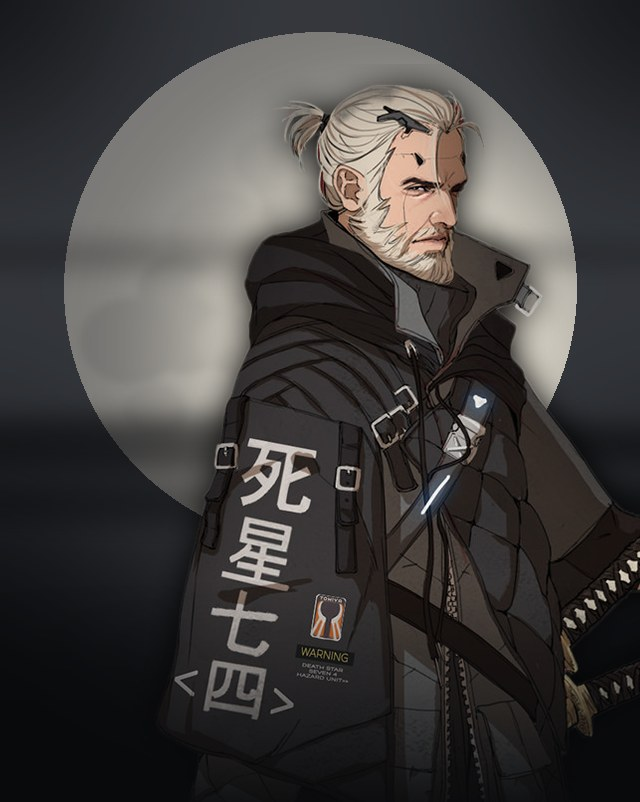
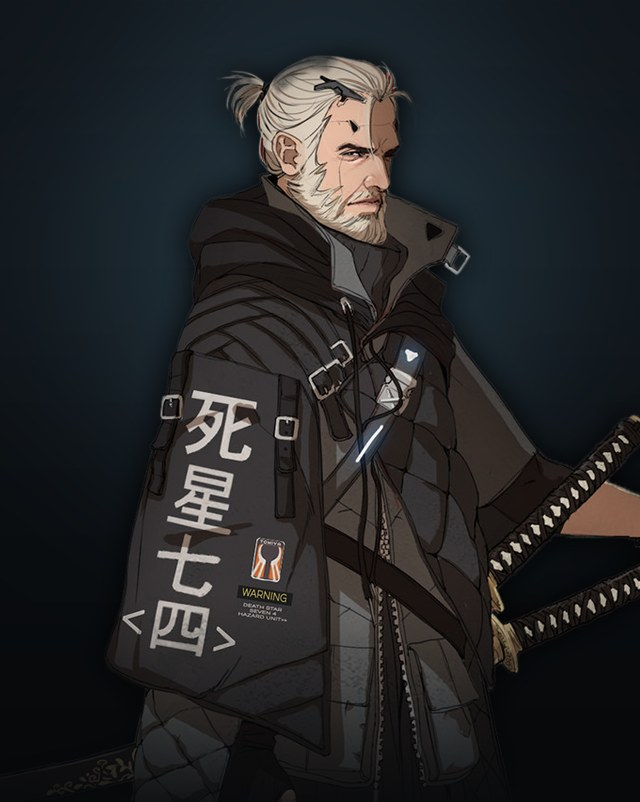
Zolo pass 2: glacier palette, moonlit forest background, centred portrait without moon, no alias box or martial-arts styling
Claude-Session: https://claude.ai/code/session_01Hg9Pj69goethW2WLdRVFiR

diff --git a/index.html b/index.html
@@ -1518,23 +1518,23 @@ textarea.ed{display:block;margin-top:4px;resize:vertical;font-size:13.5px;line-h
 }
 
 /* ---------- ZOLO: the moon to Iō's sun. Same bones, cold skin: ink black, bone and silver structure, one vermilion accent ---------- */
-body.zolo{--void:#07080a;--panel:#0d0f12;--cell:#15181c;--cell-2:#1c2025;--line:#2a2f36;--frame:#80868f;--hdr:#000;
-  --red:#b3261e;--red-dim:#3d1411;--red-hi:#e0402f;--gold:#dcd6c8;--gold-dim:#6e6b64;--ink:#eef0f2;--ink-2:#b8bdc4;--ink-3:#6e747c}
+body.zolo{--void:#06080a;--panel:#0c1014;--cell:#131920;--cell-2:#1a2129;--line:#27313b;--frame:#7b8894;--hdr:#000;
+  --red:#1f6f8f;--red-dim:#10313f;--red-hi:#6cc6e6;--gold:#d9dde0;--gold-dim:#66707a;--ink:#eef2f4;--ink-2:#b4bec7;--ink-3:#6b7682}
 body.zolo .topin{background:rgba(12,14,17,.84)}
 body.zolo .box,body.zolo .zall,body.zolo .zitem,body.zolo .rside,body.zolo .zpanel.empty{background:rgba(12,14,17,.78)}
 body.zolo .rcard{background:rgba(12,14,17,.82)}
 body.zolo .seg button{background:rgba(12,14,17,.85)}
-body.zolo .id{background:linear-gradient(90deg,rgba(179,38,30,.22),transparent)}
+body.zolo .id{background:linear-gradient(90deg,rgba(108,198,230,.13),transparent)}
 body.zolo .hb::after{border-color:transparent var(--red-hi) transparent transparent}
 body.zolo .stat b{letter-spacing:.2em}
 body.zolo .portrait{background:#090a0c}
 body.zolo .chip{border-color:var(--frame);color:var(--ink-2)}
 .moonmark{width:34px;height:34px;flex:none}
+body.zolo .tab[aria-current]{background:var(--red);color:#fff;box-shadow:0 0 18px rgba(108,198,230,.25)}
 /* Zolo signature: finer silver frames, a vermilion seal on section titles, elements retuned to the moon palette */
-body.zolo{--earth:#d9cdb4;--fire:#e0402f;--water:#8fb4d8;--air:#e8ecf2}
 body.zolo .box,body.zolo .stat,body.zolo .rside,body.zolo .zpanel.empty{border-width:1px}
 body.zolo .topin{box-shadow:inset 0 0 0 1px var(--frame)}
-body.zolo .sec-title::before{content:"";width:13px;height:13px;flex:none;background:var(--red-hi);box-shadow:0 0 0 3px rgba(224,64,47,.18);transform:rotate(45deg);margin:0 4px 0 2px}
+body.zolo .sec-title::before{content:"";width:11px;height:11px;flex:none;background:var(--red-hi);box-shadow:0 0 12px rgba(108,198,230,.55);transform:rotate(45deg);margin:0 4px 0 2px}
 body.zolo .sec-title::after{height:1px;background:linear-gradient(90deg,var(--gold),transparent)}
 body.zolo .hb{border-bottom:1px solid rgba(220,214,200,.12)}
 /* persona switch (header) */
@@ -1711,7 +1711,7 @@ body.zolo .whosw button[aria-pressed="true"]{color:#0b0c0e;background:var(--gold
     document.body.classList.toggle("zolo", WHO === "zolo");
     if (WHO === "zolo" && ZREADY.indexOf(tab) < 0) tab = "dossier";
   }
-  var MOON = '<svg class="moonmark" viewBox="0 0 64 64" aria-hidden="true"><defs><radialGradient id="mmg" cx="40%" cy="38%" r="70%"><stop offset="0" stop-color="#f2eee4"/><stop offset=".7" stop-color="#cfc9bb"/><stop offset="1" stop-color="#9c978c"/></radialGradient></defs><circle cx="32" cy="32" r="27" fill="url(#mmg)"/><circle cx="43" cy="24" r="23" fill="#0b0c0e"/><circle cx="16" cy="38" r="2.4" fill="#e0402f"/></svg>';
+  var MOON = '<svg class="moonmark" viewBox="0 0 64 64" aria-hidden="true"><defs><radialGradient id="mmg" cx="40%" cy="38%" r="70%"><stop offset="0" stop-color="#f2eee4"/><stop offset=".7" stop-color="#cfc9bb"/><stop offset="1" stop-color="#9c978c"/></radialGradient></defs><circle cx="32" cy="32" r="27" fill="url(#mmg)"/><circle cx="43" cy="24" r="23" fill="#0b0c0e"/><circle cx="16" cy="38" r="2.4" fill="#6cc6e6"/></svg>';
   var SUNICO = '<svg viewBox="0 0 24 24" aria-hidden="true"><circle cx="12" cy="12" r="5" fill="currentColor"/><g stroke="currentColor" stroke-width="2" stroke-linecap="round"><path d="M12 1.5v3M12 19.5v3M1.5 12h3M19.5 12h3M4.6 4.6l2.1 2.1M17.3 17.3l2.1 2.1M4.6 19.4l2.1-2.1M17.3 6.7l2.1-2.1"/></g></svg>';
   var MOONICO = '<svg viewBox="0 0 24 24" aria-hidden="true"><path fill="currentColor" d="M20.5 14.6A8.8 8.8 0 0 1 9.4 3.5a.6.6 0 0 0-.8-.7A9.8 9.8 0 1 0 21.2 15.4a.6.6 0 0 0-.7-.8z"/></svg>';
   function whoSwitch(){ if (!((IO && IO.zolo) || (S && S.zolo))) return '';
@@ -1771,10 +1771,11 @@ body.zolo .whosw button[aria-pressed="true"]{color:#0b0c0e;background:var(--gold
     var stm = String(r.name || "").match(STAT_TAG);
     if (!editing && nyoziOn() && stm && stm[1] === "EMP") cls.push("nyzsk");
     if (prac) cls.push("practiced");
-    if (r.el && !editing) cls.push("master", "m-" + r.el);
-    if (!editing && !r.el && formIcon(r.icon || r.name)) cls.push("iconrow");
-    var badge = r.el ? '<span class="elc el-' + esc(r.el) + '" title="' + esc(r.el) + '">' + ({earth:"土",fire:"火",water:"水",air:"风"}[r.el] || "") + '</span>'
-      : (!editing ? formIcon(r.icon || r.name) : '');
+    var zel = WHO === "io" ? r.el : "";
+    if (zel && !editing) cls.push("master", "m-" + zel);
+    if (!editing && !r.el && WHO === "io" && formIcon(r.icon || r.name)) cls.push("iconrow");
+    var badge = zel ? '<span class="elc el-' + esc(r.el) + '" title="' + esc(r.el) + '">' + ({earth:"土",fire:"火",water:"水",air:"风"}[r.el] || "") + '</span>'
+      : (!editing && WHO === "io" ? formIcon(r.icon || r.name) : '');
     var nameCell = editing
       ? '<span class="flex"><button class="keybtn' + (r.bold ? ' on' : '') + '" data-key="' + p + '" title="Mark as key skill" aria-label="Key skill">★</button>' + f(p+".name",{label:"Skill"}) + (r.el !== undefined || ind ? sel(p+".el", ELEMENTS, "Element") : '') + del(p) + '</span>'
       : '<span class="mname">' + badge + '<span>' + nm(String(r.name).replace(/\s*\[NYOZI\]/ig, "")) + '</span></span>';
@@ -1815,7 +1816,7 @@ body.zolo .whosw button[aria-pressed="true"]{color:#0b0c0e;background:var(--gold
         return;
       }
       if (inSub && STAT_TAG.test(r.name)) inSub = false;  // a row with its own stat tag is a skill in its own right, not part of the sub-group above
-      if (inSub && !editing && /^Martial Arts/.test(lastSub)){
+      if (inSub && !editing && WHO === "io" && /^Martial Arts/.test(lastSub)){
         if (r.el && !masterOpen){ masterOpen = true; out += '<tr class="sub mhead"><td colspan="5">Mastered</td></tr>'; }
         else if (!r.el && masterOpen && !otherOpen){ otherOpen = true; out += '<tr class="sub mhead other"><td colspan="5">Other Forms</td></tr>'; }
       }
@@ -2010,7 +2011,7 @@ body.zolo .whosw button[aria-pressed="true"]{color:#0b0c0e;background:var(--gold
         return '<tr class="' + (r.ind ? 'ind ' : '') + (r.tone && r.tone !== "med" ? 'row-' + esc(r.tone) : '') + '"><td class="name">' + name + '</td><td class="n dmg">' + f(p+".dmg",{dash:1}) + '</td><td class="n">' + f(p+".ammo",{num:1,dash:1}) + '</td><td class="n">' + f(p+".rof",{num:1,dash:1}) + '</td></tr>'; }).join("") +
       '</tbody></table></div>' + add("cyberweapons","Add cyberweapon") + '</section>';
     var glitch = '<figure class="box glitch"><img src="' + esc(S.glitch || "img/io-glitch.webp") + '" alt="' + (WHO === "zolo" ? 'Zolo masked and hooded, katanas at his back, under the moon' : 'Glitching animated portrait of Iō drinking tea') + '" loading="lazy"><figcaption><span class="lab">Known aliases</span><div class="aka">' + String(S.aliases || "").split(",").map(function(a){ a = a.trim(); return a ? '<span>' + esc(a) + '</span>' : ''; }).join("") + '</div></figcaption></figure>';
-    return '<div class="wa a-wa"><h2 class="sec-title"><span class="glx">Weapons &amp; Armor</span></h2>' + armor + weapons + cyber + glitch + '</div>';
+    return '<div class="wa a-wa"><h2 class="sec-title"><span class="glx">Weapons &amp; Armor</span></h2>' + armor + weapons + cyber + (WHO === "zolo" ? '' : glitch) + '</div>';
   }
 
   function pharma(){
@@ -3277,7 +3278,7 @@ body.zolo .whosw button[aria-pressed="true"]{color:#0b0c0e;background:var(--gold
     document.body.classList.toggle("editing", editing);
     if (!editing && S && WHO === "io") deriveSkills();
     var body = tab === "ware" ? chrome() : tab === "rep" ? repPage() : tab === "posse" ? possePage() : tab === "vehicles" ? garagePage() : tab === "advance" ? advPage() : tab === "casefile" ? casePage() : '<main class="dossier">' + idColumn() + statsRail() + skills() + vitals() + weaponsArmor() + loadout() + '</main>';
-    app.innerHTML = header() + body + (tab === "dossier" ? '<p class="credit">Martial arts icons by Lorc, Delapouite and Caro Asercion from <a href="https://game-icons.net" target="_blank" rel="noopener">game-icons.net</a>, used under <a href="https://creativecommons.org/licenses/by/3.0/" target="_blank" rel="noopener">CC BY 3.0</a>.</p>' : '');
+    app.innerHTML = header() + body + (tab === "dossier" && WHO === "io" ? '<p class="credit">Martial arts icons by Lorc, Delapouite and Caro Asercion from <a href="https://game-icons.net" target="_blank" rel="noopener">game-icons.net</a>, used under <a href="https://creativecommons.org/licenses/by/3.0/" target="_blank" rel="noopener">CC BY 3.0</a>.</p>' : '');
     if (tab === "ware") wireUp();
     if (tab === "rep" && !editing) repApply();
     if (tab === "vehicles" && gZone && !editing) setZone(gZone, false);
@@ -3690,7 +3691,7 @@ body.zolo .whosw button[aria-pressed="true"]{color:#0b0c0e;background:var(--gold
 (function(){
   "use strict";
   var c = document.getElementById("sky"); if (!c || !c.getContext) return;
-  var ctx = c.getContext("2d"), layers = [], W = 0, H = 0, dpr = 1, shoot = null, nextShoot = 0, craters = [], clouds = [];
+  var ctx = c.getContext("2d"), layers = [], W = 0, H = 0, dpr = 1, shoot = null, nextShoot = 0;
   var still = window.matchMedia && window.matchMedia("(prefers-reduced-motion: reduce)").matches;
   function rnd(seed){ return function(){ seed = (seed * 16807) % 2147483647; return (seed - 1) / 2147483646; }; }
   var r = rnd(20450917);
@@ -3709,42 +3710,67 @@ body.zolo .whosw button[aria-pressed="true"]{color:#0b0c0e;background:var(--gold
       for (var i = 0; i < L.n; i++) stars.push({x:r()*W, y:r()*H, s:L.size[0]+r()*(L.size[1]-L.size[0]), a:L.alpha[0]+r()*(L.alpha[1]-L.alpha[0]), warm:r()<.18, ph:r()*6.28, tw:.4+r()*1.2});
       return {stars:stars, speed:L.speed};
     });
-    /* Zolo's moon: fixed craters and a few long ink-cloud bands */
-    var rc = rnd(740204); craters = [];
-    for (var i = 0; i < 26; i++){ var a = rc()*6.283, d = Math.pow(rc(), .7)*.82; craters.push({x:Math.cos(a)*d, y:Math.sin(a)*d, r:.03 + rc()*.13, o:.05 + rc()*.12}); }
-    clouds = [{y:.02, h:.10, w:1.9, sp:.006, ph:.1, o:.78}, {y:.16, h:.06, w:1.5, sp:.009, ph:.6, o:.62}, {y:-.12, h:.05, w:1.3, sp:.004, ph:.35, o:.45}];
   }
-  function moon(t){
-    var R = Math.min(W, H) * (W < 700 ? .34 : .27), cx = W * (W < 700 ? .74 : .80), cy = H * .22;
-    var halo = ctx.createRadialGradient(cx, cy, R*.9, cx, cy, R*3.2);
-    halo.addColorStop(0, "rgba(206,210,220,.16)"); halo.addColorStop(.35, "rgba(150,160,180,.06)"); halo.addColorStop(1, "rgba(150,160,180,0)");
-    ctx.fillStyle = halo; ctx.fillRect(0, 0, W, H);
-    ctx.save(); ctx.beginPath(); ctx.arc(cx, cy, R, 0, 6.2832); ctx.clip();
-    var body = ctx.createRadialGradient(cx - R*.3, cy - R*.3, R*.1, cx, cy, R*1.05);
-    body.addColorStop(0, "#f1ede3"); body.addColorStop(.62, "#d5cfc1"); body.addColorStop(1, "#8f8b83");
-    ctx.fillStyle = body; ctx.fillRect(cx - R, cy - R, R*2, R*2);
-    craters.forEach(function(k){ var g = ctx.createRadialGradient(cx + k.x*R, cy + k.y*R, 0, cx + k.x*R, cy + k.y*R, k.r*R);
-      g.addColorStop(0, "rgba(90,88,84," + k.o + ")"); g.addColorStop(.8, "rgba(90,88,84," + (k.o*.6) + ")"); g.addColorStop(1, "rgba(90,88,84,0)");
-      ctx.fillStyle = g; ctx.beginPath(); ctx.arc(cx + k.x*R, cy + k.y*R, k.r*R, 0, 6.2832); ctx.fill(); });
-    var limb = ctx.createRadialGradient(cx - R*.35, cy - R*.4, R*.4, cx, cy, R*1.02);
-    limb.addColorStop(0, "rgba(10,12,16,0)"); limb.addColorStop(.75, "rgba(10,12,16,.10)"); limb.addColorStop(1, "rgba(10,12,16,.55)");
-    ctx.fillStyle = limb; ctx.fillRect(cx - R, cy - R, R*2, R*2);
-    ctx.restore();
-    /* ink clouds drift across the face */
-    var k2 = t/1000;
-    clouds.forEach(function(cl){
-      var x = cx + (((cl.ph + (still ? 0 : k2*cl.sp)) % 1) * 2 - 1) * R * 2.2, y = cy + cl.y*R*3;
-      ctx.save(); ctx.translate(x, y); ctx.scale(cl.w * 3.2, 1);
-      var g = ctx.createRadialGradient(0, 0, 0, 0, 0, cl.h*R*3);
-      g.addColorStop(0, "rgba(7,8,10," + cl.o + ")"); g.addColorStop(.55, "rgba(7,8,10," + (cl.o*.55) + ")"); g.addColorStop(1, "rgba(7,8,10,0)");
-      ctx.fillStyle = g; ctx.beginPath(); ctx.arc(0, 0, cl.h*R*3, 0, 6.2832); ctx.fill(); ctx.restore();
+  /* Zolo: a moonlit pine forest. The moon stays off-screen; only its light falls through (shafts, mist, rim-lit treetops). */
+  var fcan = null;
+  function pine(g, x, base, h, w, col, rim){
+    var tiers = 7 + Math.floor(h / 40), trunkW = Math.max(1.5, w*.06);
+    g.fillStyle = col; g.fillRect(x - trunkW/2, base - h*.12, trunkW, h*.12 + 2);
+    g.beginPath(); g.moveTo(x, base - h);
+    for (var i = 1; i <= tiers; i++){ var ty = base - h + h*.9*(i/tiers), tw = w*.5*(i/tiers)*(.8 + .125*((i*7919) % 3));
+      g.lineTo(x + tw, ty); g.lineTo(x + tw*.45, ty - h*.035); }
+    for (var j = tiers; j >= 1; j--){ var ty2 = base - h + h*.9*(j/tiers), tw2 = w*.5*(j/tiers)*(.8 + .125*((j*104729) % 3));
+      g.lineTo(x - tw2*.45, ty2 - h*.035); g.lineTo(x - tw2, ty2); }
+    g.closePath(); g.fill();
+    if (rim){ g.save(); g.clip(); g.fillStyle = rim; g.fillRect(x, base - h, w*.5, h*.9); g.restore(); }
+  }
+  function buildForest(){
+    fcan = document.createElement("canvas"); fcan.width = Math.round(W * dpr); fcan.height = Math.round(H * dpr);
+    var g = fcan.getContext("2d"); g.setTransform(dpr, 0, 0, dpr, 0, 0);
+    var rf = rnd(918273);
+    var layers = [
+      {n: Math.ceil(W/26), h:[.10,.20], w:[.35,.5], col:"#101820", rim:"rgba(150,190,215,.10)", base:1.0, fog:"rgba(120,160,185,.10)"},
+      {n: Math.ceil(W/42), h:[.18,.32], w:[.32,.45], col:"#0a1016", rim:"rgba(150,190,215,.07)", base:1.0, fog:"rgba(90,125,150,.10)"},
+      {n: Math.ceil(W/90), h:[.34,.58], w:[.28,.4], col:"#040608", rim:null, base:1.02, fog:null, edges:true}
+    ];
+    layers.forEach(function(L){
+      for (var i = 0; i < L.n; i++){
+        var x = L.edges ? (rf() < .5 ? rf()*W*.24 : W - rf()*W*.24) : rf()*W, h = H*(L.h[0] + rf()*(L.h[1]-L.h[0]));
+        pine(g, x, H*L.base, h, h*(L.w[0] + rf()*(L.w[1]-L.w[0])), L.col, L.rim);
+      }
+      if (L.fog){ var fg = g.createLinearGradient(0, H*.62, 0, H); fg.addColorStop(0, "rgba(0,0,0,0)"); fg.addColorStop(.55, L.fog); fg.addColorStop(1, "rgba(0,0,0,0)"); g.fillStyle = fg; g.fillRect(0, H*.62, W, H*.38); }
     });
+  }
+  function forest(t){
+    if (!fcan || fcan.width !== Math.round(W*dpr)) buildForest();
+    var k = t/1000, sx = W*.82, sy = -H*.18;
+    var glow = ctx.createRadialGradient(sx, sy, 0, sx, sy, Math.max(W,H)*.95);
+    glow.addColorStop(0, "rgba(190,220,240,.20)"); glow.addColorStop(.35, "rgba(120,165,195,.07)"); glow.addColorStop(1, "rgba(120,165,195,0)");
+    ctx.fillStyle = glow; ctx.fillRect(0, 0, W, H);
+    var len = Math.max(W,H)*1.5;
+    [[.62,.05,.06],[.52,.035,.045],[.74,.03,.05],[.43,.025,.035]].forEach(function(sh, i){
+      var ang = sh[0] + (still ? 0 : .012*Math.sin(k*.08 + i));
+      ctx.save(); ctx.translate(sx, sy); ctx.rotate(ang);
+      var gx = ctx.createLinearGradient(0, 0, 0, len);
+      gx.addColorStop(0, "rgba(200,225,240," + sh[1] + ")"); gx.addColorStop(1, "rgba(200,225,240,0)");
+      ctx.fillStyle = gx; ctx.beginPath(); ctx.moveTo(-8, 0); ctx.lineTo(8, 0); ctx.lineTo(len*sh[2], len); ctx.lineTo(-len*sh[2], len); ctx.closePath(); ctx.fill(); ctx.restore();
+    });
+    ctx.drawImage(fcan, 0, 0, W, H);
+    for (var m = 0; m < 3; m++){
+      var y = H*(.78 + m*.07), off = still ? 0 : ((k*(6 + m*4)) % (W*1.6));
+      for (var rp = -1; rp <= 1; rp++){
+        ctx.save(); ctx.translate(rp*W*1.6 + off - W*.3 + m*W*.4, y); ctx.scale(6, 1);
+        var mg = ctx.createRadialGradient(0, 0, 0, 0, 0, W*.14);
+        mg.addColorStop(0, "rgba(150,180,200," + (.07 - m*.015) + ")"); mg.addColorStop(1, "rgba(150,180,200,0)");
+        ctx.fillStyle = mg; ctx.beginPath(); ctx.arc(0, 0, W*.14, 0, 6.2832); ctx.fill(); ctx.restore();
+      }
+    }
   }
   function nebula(t){
     var k = t/1000;
     var blobs = document.body.classList.contains("zolo") ? [
       [W*(.16+.03*Math.sin(k*.021)), H*(.14+.03*Math.cos(k*.017)), Math.max(W,H)*.55, "70,86,112", .09],
-      [W*(.52+.04*Math.cos(k*.013)), H*(.62+.04*Math.sin(k*.019)), Math.max(W,H)*.45, "179,38,30", .035],
+      [W*(.52+.04*Math.cos(k*.013)), H*(.42+.04*Math.sin(k*.019)), Math.max(W,H)*.45, "40,110,140", .05],
       [W*(.88+.02*Math.sin(k*.011)), H*(.08+.02*Math.sin(k*.023)), Math.max(W,H)*.35, "220,214,200", .04]
     ] : [
       [W*(.16+.03*Math.sin(k*.021)), H*(.14+.03*Math.cos(k*.017)), Math.max(W,H)*.55, "120,20,28", .09],
@@ -3788,7 +3814,7 @@ body.zolo .whosw button[aria-pressed="true"]{color:#0b0c0e;background:var(--gold
       }
     }
     ctx.globalAlpha = 1;
-    if (zo){ moon(t); return; }
+    if (zo){ forest(t); return; }
     /* planet limb with sunlit rim, and a slowly turning orbital ring */
     var R = Math.max(W, H) * 1.05, cx = W * .78, cy = H + R * .80;
     ctx.beginPath(); ctx.arc(cx, cy, R, 0, 6.2832); ctx.fillStyle = "#0a0706"; ctx.fill();
@@ -3813,7 +3839,7 @@ body.zolo .whosw button[aria-pressed="true"]{color:#0b0c0e;background:var(--gold
   build();
   nextShoot = 6000;
   if (still) draw(0); else requestAnimationFrame(loop);
-  var to; window.addEventListener("resize", function(){ clearTimeout(to); to = setTimeout(function(){ build(); if (still) draw(0); }, 120); });
+  var to; window.addEventListener("resize", function(){ clearTimeout(to); to = setTimeout(function(){ build(); fcan = null; if (still) draw(0); }, 120); });
 })();
 </script>
 
